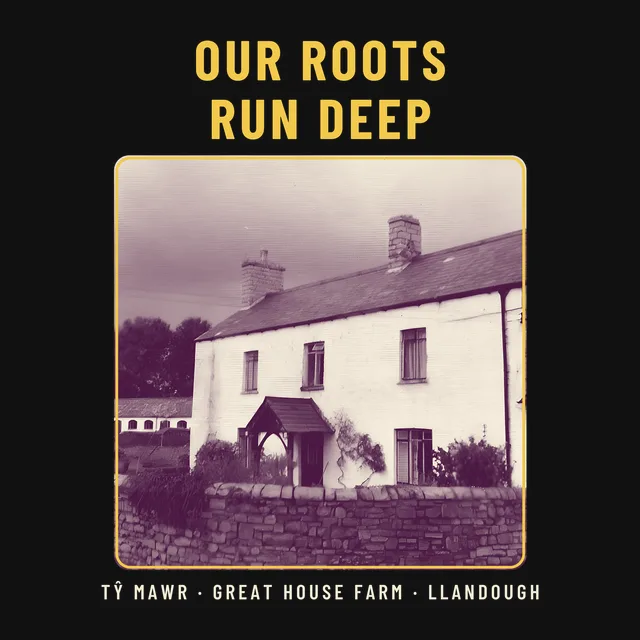
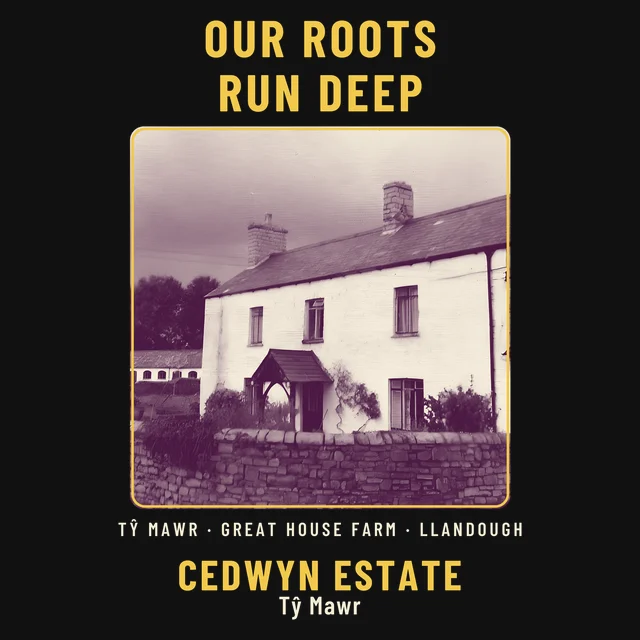
Shop: CEDWYN ESTATE / Tŷ Mawr lockup on all 17 product images; back link reads 'Back to Cedwyn Estate' — Sion's Tab agent

diff --git a/public/index.html b/public/index.html
@@ -14,29 +14,29 @@
 <p>T-shirts, hoodies, mugs, totes, posters and stickers for Great House Farm, Llandough. Each one is printed when you order it and sold at cost. Every purchase helps tell the story of the farm.</p>
 <p><a class="sl-btn" href="#products">Shop the merch</a> <a class="sl-btn sl-ghost" href="https://ebooks.bucklerfamily.estate/">The e-books</a></p></div></section>
 <section class="sh-sec" id="products"><h2>Merch</h2><p class="sh-lead">Seventeen items, each printed when you order it, mostly in the UK.</p>
-<p class="sh-note">Every item is in the store now. Checkout opens very soon; until then you can browse and save your favourites.</p><div class="sh-grid"><article class="sh-card" id="tee-farmhouse"><div class="sh-img"><img src="/img/p-tee-farmhouse.webp?v=photo1" alt="Tŷ Mawr Farmhouse T-shirt" loading="lazy" width="600" height="600"></div>
-<div class="sh-body"><p class="sh-kind">T-shirt</p><h3>Tŷ Mawr Farmhouse T-shirt</h3><p>A real photograph of the Tŷ Mawr farmhouse from the farm&#x27;s own album. The sky is removed and it is printed in a mulberry and cream duotone; the building itself is unchanged. On a black heavyweight cotton tee (Gildan 5000). Printed in the UK.</p><a class="sl-btn sh-buy" href="https://ty-mawr-gift-shop.printify.me/product/33339691?utm_source=shop.bucklerfamily.estate&amp;utm_medium=storefront&amp;utm_campaign=merch" rel="noopener">See it · from $16.99</a></div></article><article class="sh-card" id="tee-cofiwch"><div class="sh-img"><img src="/img/p-tee-cofiwch.webp" alt="Cofiwch Dŷ Mawr T-shirt" loading="lazy" width="600" height="600"></div>
-<div class="sh-body"><p class="sh-kind">T-shirt</p><h3>Cofiwch Dŷ Mawr T-shirt</h3><p>Remember Tŷ Mawr in bold Welsh type, on a black heavyweight cotton tee. Printed in the UK.</p><a class="sl-btn sh-buy" href="https://ty-mawr-gift-shop.printify.me/product/33339699?utm_source=shop.bucklerfamily.estate&amp;utm_medium=storefront&amp;utm_campaign=merch" rel="noopener">See it · from $16.99</a></div></article><article class="sh-card" id="tee-roots"><div class="sh-img"><img src="/img/p-tee-roots.webp?v=photo1" alt="Our Roots Run Deep T-shirt" loading="lazy" width="600" height="600"></div>
-<div class="sh-body"><p class="sh-kind">T-shirt</p><h3>Our Roots Run Deep T-shirt</h3><p>Our Roots Run Deep, above a real photograph of the Tŷ Mawr farmhouse from the farm&#x27;s own album, printed in a mulberry and cream duotone. On a black heavyweight cotton tee (Gildan 5000). Printed in the UK.</p><a class="sl-btn sh-buy" href="https://ty-mawr-gift-shop.printify.me/product/33339700?utm_source=shop.bucklerfamily.estate&amp;utm_medium=storefront&amp;utm_campaign=merch" rel="noopener">See it · from $16.99</a></div></article><article class="sh-card" id="tee-two-realities"><div class="sh-img"><img src="/img/p-tee-two-realities.webp" alt="Two Realities, One Farm T-shirt" loading="lazy" width="600" height="600"></div>
-<div class="sh-body"><p class="sh-kind">T-shirt</p><h3>Two Realities, One Farm T-shirt</h3><p>The chessboard design on a black heavyweight cotton tee. Printed in the UK.</p><a class="sl-btn sh-buy" href="https://ty-mawr-gift-shop.printify.me/product/33339701?utm_source=shop.bucklerfamily.estate&amp;utm_medium=storefront&amp;utm_campaign=merch" rel="noopener">See it · from $16.99</a></div></article><article class="sh-card" id="tee-owl"><div class="sh-img"><img src="/img/p-tee-porch.webp?v=photo1" alt="Croeso i Dŷ Mawr Porch T-shirt" loading="lazy" width="600" height="600"></div>
-<div class="sh-body"><p class="sh-kind">T-shirt</p><h3>Croeso i Dŷ Mawr Porch T-shirt</h3><p>The farmhouse&#x27;s timber porch, from a real photograph in the farm&#x27;s own album, printed in a mulberry and cream duotone with no changes to the building. On a black heavyweight cotton tee (Gildan 5000). Printed in the UK.</p><a class="sl-btn sh-buy" href="https://ty-mawr-gift-shop.printify.me/product/33339702?utm_source=shop.bucklerfamily.estate&amp;utm_medium=storefront&amp;utm_campaign=merch" rel="noopener">See it · from $16.99</a></div></article><article class="sh-card" id="tee-path"><div class="sh-img"><img src="/img/p-tee-path.webp?v=photo1" alt="I Followed the Path T-shirt" loading="lazy" width="600" height="600"></div>
-<div class="sh-body"><p class="sh-kind">T-shirt</p><h3>I Followed the Path T-shirt</h3><p>Numbered stepping stones leading to a real photograph of the Tŷ Mawr farmhouse (sky removed, mulberry and cream duotone). On a black heavyweight cotton tee (Gildan 5000). Printed in the UK.</p><a class="sl-btn sh-buy" href="https://ty-mawr-gift-shop.printify.me/product/33339704?utm_source=shop.bucklerfamily.estate&amp;utm_medium=storefront&amp;utm_campaign=merch" rel="noopener">See it · from $16.99</a></div></article><article class="sh-card" id="hoodie-emblem"><div class="sh-img"><img src="/img/p-hoodie-emblem.webp?v=photo1" alt="Tŷ Mawr Emblem Hoodie" loading="lazy" width="600" height="600"></div>
-<div class="sh-body"><p class="sh-kind">Hoodie</p><h3>Tŷ Mawr Emblem Hoodie</h3><p>The Tŷ Mawr emblem: a real photograph of the farmhouse from the farm&#x27;s own album, sky removed, in a mulberry tone inside a gold ring. On a black Gildan 18500 hooded sweatshirt. Printed in the UK.</p><a class="sl-btn sh-buy" href="https://ty-mawr-gift-shop.printify.me/product/33339706?utm_source=shop.bucklerfamily.estate&amp;utm_medium=storefront&amp;utm_campaign=merch" rel="noopener">See it · $40.99</a></div></article><article class="sh-card" id="hoodie-wordmark"><div class="sh-img"><img src="/img/p-hoodie-wordmark.webp" alt="Tŷ Mawr Estate Map Hoodie" loading="lazy" width="600" height="600"></div>
-<div class="sh-body"><p class="sh-kind">Hoodie</p><h3>Tŷ Mawr Estate Map Hoodie</h3><p>The Tŷ Mawr wordmark under estate-map line art, on a black hooded sweatshirt. Printed in the UK.</p><a class="sl-btn sh-buy" href="https://ty-mawr-gift-shop.printify.me/product/33339709?utm_source=shop.bucklerfamily.estate&amp;utm_medium=storefront&amp;utm_campaign=merch" rel="noopener">See it · $40.99</a></div></article><article class="sh-card" id="mug-emblem"><div class="sh-img"><img src="/img/p-mug-emblem.webp?v=photo1" alt="Tŷ Mawr Black Mug" loading="lazy" width="600" height="600"></div>
-<div class="sh-body"><p class="sh-kind">Mug</p><h3>Tŷ Mawr Black Mug</h3><p>Black ceramic mug, 11oz or 15oz, with the Tŷ Mawr emblem on both sides: a real photograph of the farmhouse, sky removed, in a mulberry tone inside a gold ring. Printed in the UK.</p><a class="sl-btn sh-buy" href="https://ty-mawr-gift-shop.printify.me/product/33339711?utm_source=shop.bucklerfamily.estate&amp;utm_medium=storefront&amp;utm_campaign=merch" rel="noopener">See it · from $14.99</a></div></article><article class="sh-card" id="mug-croeso"><div class="sh-img"><img src="/img/p-mug-croeso.webp" alt="Croeso i Dŷ Mawr Mug" loading="lazy" width="600" height="600"></div>
-<div class="sh-body"><p class="sh-kind">Mug</p><h3>Croeso i Dŷ Mawr Mug</h3><p>Black ceramic mug with the field-map design and a Welsh welcome. Printed in the UK.</p><a class="sl-btn sh-buy" href="https://ty-mawr-gift-shop.printify.me/product/33339714?utm_source=shop.bucklerfamily.estate&amp;utm_medium=storefront&amp;utm_campaign=merch" rel="noopener">See it · from $14.99</a></div></article><article class="sh-card" id="tote-record"><div class="sh-img"><img src="/img/p-tote-record.webp" alt="Read the Record Tote Bag" loading="lazy" width="600" height="600"></div>
-<div class="sh-body"><p class="sh-kind">Tote bag</p><h3>Read the Record Tote Bag</h3><p>Black cotton tote with the open-book Read the Record design. Printed in the UK.</p><a class="sl-btn sh-buy" href="https://ty-mawr-gift-shop.printify.me/product/33339716?utm_source=shop.bucklerfamily.estate&amp;utm_medium=storefront&amp;utm_campaign=merch" rel="noopener">See it · $17.99</a></div></article><article class="sh-card" id="poster-vale"><div class="sh-img"><img src="/img/p-poster-vale.webp?v=photo1" alt="Tŷ Mawr Album Poster" loading="lazy" width="600" height="600"></div>
-<div class="sh-body"><p class="sh-kind">Poster</p><h3>Tŷ Mawr Album Poster</h3><p>Four real photographs from the farm&#x27;s own album: the farmhouse front, its side and porch, the entrance gate and the stable range. Restored and printed in a mulberry duotone, with no changes to the buildings. Matte fine-art paper. Printed in the UK.</p><a class="sl-btn sh-buy" href="https://ty-mawr-gift-shop.printify.me/product/33339720?utm_source=shop.bucklerfamily.estate&amp;utm_medium=storefront&amp;utm_campaign=merch" rel="noopener">See it · from $17.99</a></div></article><article class="sh-card" id="sticker-badge"><div class="sh-img"><img src="/img/p-sticker-badge.webp?v=photo1" alt="Tŷ Mawr Badge Sticker" loading="lazy" width="600" height="600"></div>
-<div class="sh-body"><p class="sh-kind">Sticker</p><h3>Tŷ Mawr Badge Sticker</h3><p>Round kiss-cut vinyl sticker with the Tŷ Mawr emblem: a real photograph of the farmhouse in a mulberry tone inside a gold ring. Ships from the US, so it takes longer.</p><a class="sl-btn sh-buy" href="https://ty-mawr-gift-shop.printify.me/product/33339723?utm_source=shop.bucklerfamily.estate&amp;utm_medium=storefront&amp;utm_campaign=merch" rel="noopener">See it · $3.99</a></div></article><article class="sh-card" id="tee-crest"><div class="sh-img"><img src="/img/p-tee-crest.webp?v=crest2" alt="Williams–Buckler Crest T-shirt" loading="lazy" width="600" height="600"></div>
-<div class="sh-body"><p class="sh-kind">T-shirt</p><h3>Williams–Buckler Crest T-shirt</h3><p>The Williams–Buckler · Cedwyn Estate crest, heraldic vector artwork in black and gold, drawn to the Burke blazon, on a black heavyweight cotton tee (Gildan 5000). A brand device combining the Williams and Buckler arms; not a grant of arms. Crest artwork adapted from Wikimedia Commons works by Sodacan, Glasshouse, Vexald and VIGNERON (after ZigeunerAlt), CC BY-SA 4.0. Printed in the UK.</p><a class="sl-btn sh-buy" href="https://ty-mawr-gift-shop.printify.me/product/33341237?utm_source=shop.bucklerfamily.estate&amp;utm_medium=storefront&amp;utm_campaign=merch" rel="noopener">See it · from $16.99</a></div></article><article class="sh-card" id="hoodie-crest"><div class="sh-img"><img src="/img/p-hoodie-crest.webp?v=crest2" alt="Williams–Buckler Crest Hoodie" loading="lazy" width="600" height="600"></div>
-<div class="sh-body"><p class="sh-kind">Hoodie</p><h3>Williams–Buckler Crest Hoodie</h3><p>The Williams–Buckler · Cedwyn Estate crest, heraldic vector artwork in black and gold, drawn to the Burke blazon, on a black Gildan 18500 hooded sweatshirt. A brand device combining the Williams and Buckler arms; not a grant of arms. Crest artwork adapted from Wikimedia Commons works by Sodacan, Glasshouse, Vexald and VIGNERON (after ZigeunerAlt), CC BY-SA 4.0. Printed in the UK.</p><a class="sl-btn sh-buy" href="https://ty-mawr-gift-shop.printify.me/product/33341239?utm_source=shop.bucklerfamily.estate&amp;utm_medium=storefront&amp;utm_campaign=merch" rel="noopener">See it · $40.99</a></div></article><article class="sh-card" id="mug-crest"><div class="sh-img"><img src="/img/p-mug-crest.webp?v=crest2" alt="Williams–Buckler Crest Mug" loading="lazy" width="600" height="600"></div>
-<div class="sh-body"><p class="sh-kind">Mug</p><h3>Williams–Buckler Crest Mug</h3><p>Black ceramic mug, 11oz or 15oz, with the Williams–Buckler · Cedwyn Estate crest on both sides. A brand device combining the Williams and Buckler arms; not a grant of arms. Crest artwork adapted from Wikimedia Commons works by Sodacan, Glasshouse, Vexald and VIGNERON (after ZigeunerAlt), CC BY-SA 4.0. Printed in the UK.</p><a class="sl-btn sh-buy" href="https://ty-mawr-gift-shop.printify.me/product/33341242?utm_source=shop.bucklerfamily.estate&amp;utm_medium=storefront&amp;utm_campaign=merch" rel="noopener">See it · from $14.99</a></div></article><article class="sh-card" id="sticker-crest"><div class="sh-img"><img src="/img/p-sticker-crest.webp?v=crest2" alt="Williams–Buckler Crest Sticker" loading="lazy" width="600" height="600"></div>
+<p class="sh-note">Every item is in the store now. Checkout opens very soon; until then you can browse and save your favourites.</p><div class="sh-grid"><article class="sh-card" id="tee-farmhouse"><div class="sh-img"><img src="/img/p-tee-farmhouse.webp?v=lockup1" alt="Tŷ Mawr Farmhouse T-shirt" loading="lazy" width="600" height="600"></div>
+<div class="sh-body"><p class="sh-kind">T-shirt</p><h3>Tŷ Mawr Farmhouse T-shirt</h3><p>A real photograph of the Tŷ Mawr farmhouse from the farm&#x27;s own album. The sky is removed and it is printed in a mulberry and cream duotone; the building itself is unchanged. On a black heavyweight cotton tee (Gildan 5000). Printed in the UK.</p><a class="sl-btn sh-buy" href="https://ty-mawr-gift-shop.printify.me/product/33339691?utm_source=shop.bucklerfamily.estate&amp;utm_medium=storefront&amp;utm_campaign=merch" rel="noopener">See it · from $16.99</a></div></article><article class="sh-card" id="tee-cofiwch"><div class="sh-img"><img src="/img/p-tee-cofiwch.webp?v=lockup1" alt="Cofiwch Dŷ Mawr T-shirt" loading="lazy" width="600" height="600"></div>
+<div class="sh-body"><p class="sh-kind">T-shirt</p><h3>Cofiwch Dŷ Mawr T-shirt</h3><p>Remember Tŷ Mawr in bold Welsh type, on a black heavyweight cotton tee. Printed in the UK.</p><a class="sl-btn sh-buy" href="https://ty-mawr-gift-shop.printify.me/product/33339699?utm_source=shop.bucklerfamily.estate&amp;utm_medium=storefront&amp;utm_campaign=merch" rel="noopener">See it · from $16.99</a></div></article><article class="sh-card" id="tee-roots"><div class="sh-img"><img src="/img/p-tee-roots.webp?v=lockup1" alt="Our Roots Run Deep T-shirt" loading="lazy" width="600" height="600"></div>
+<div class="sh-body"><p class="sh-kind">T-shirt</p><h3>Our Roots Run Deep T-shirt</h3><p>Our Roots Run Deep, above a real photograph of the Tŷ Mawr farmhouse from the farm&#x27;s own album, printed in a mulberry and cream duotone. On a black heavyweight cotton tee (Gildan 5000). Printed in the UK.</p><a class="sl-btn sh-buy" href="https://ty-mawr-gift-shop.printify.me/product/33339700?utm_source=shop.bucklerfamily.estate&amp;utm_medium=storefront&amp;utm_campaign=merch" rel="noopener">See it · from $16.99</a></div></article><article class="sh-card" id="tee-two-realities"><div class="sh-img"><img src="/img/p-tee-two-realities.webp?v=lockup1" alt="Two Realities, One Farm T-shirt" loading="lazy" width="600" height="600"></div>
+<div class="sh-body"><p class="sh-kind">T-shirt</p><h3>Two Realities, One Farm T-shirt</h3><p>The chessboard design on a black heavyweight cotton tee. Printed in the UK.</p><a class="sl-btn sh-buy" href="https://ty-mawr-gift-shop.printify.me/product/33339701?utm_source=shop.bucklerfamily.estate&amp;utm_medium=storefront&amp;utm_campaign=merch" rel="noopener">See it · from $16.99</a></div></article><article class="sh-card" id="tee-owl"><div class="sh-img"><img src="/img/p-tee-porch.webp?v=lockup1" alt="Croeso i Dŷ Mawr Porch T-shirt" loading="lazy" width="600" height="600"></div>
+<div class="sh-body"><p class="sh-kind">T-shirt</p><h3>Croeso i Dŷ Mawr Porch T-shirt</h3><p>The farmhouse&#x27;s timber porch, from a real photograph in the farm&#x27;s own album, printed in a mulberry and cream duotone with no changes to the building. On a black heavyweight cotton tee (Gildan 5000). Printed in the UK.</p><a class="sl-btn sh-buy" href="https://ty-mawr-gift-shop.printify.me/product/33339702?utm_source=shop.bucklerfamily.estate&amp;utm_medium=storefront&amp;utm_campaign=merch" rel="noopener">See it · from $16.99</a></div></article><article class="sh-card" id="tee-path"><div class="sh-img"><img src="/img/p-tee-path.webp?v=lockup1" alt="I Followed the Path T-shirt" loading="lazy" width="600" height="600"></div>
+<div class="sh-body"><p class="sh-kind">T-shirt</p><h3>I Followed the Path T-shirt</h3><p>Numbered stepping stones leading to a real photograph of the Tŷ Mawr farmhouse (sky removed, mulberry and cream duotone). On a black heavyweight cotton tee (Gildan 5000). Printed in the UK.</p><a class="sl-btn sh-buy" href="https://ty-mawr-gift-shop.printify.me/product/33339704?utm_source=shop.bucklerfamily.estate&amp;utm_medium=storefront&amp;utm_campaign=merch" rel="noopener">See it · from $16.99</a></div></article><article class="sh-card" id="hoodie-emblem"><div class="sh-img"><img src="/img/p-hoodie-emblem.webp?v=lockup1" alt="Tŷ Mawr Emblem Hoodie" loading="lazy" width="600" height="600"></div>
+<div class="sh-body"><p class="sh-kind">Hoodie</p><h3>Tŷ Mawr Emblem Hoodie</h3><p>The Tŷ Mawr emblem: a real photograph of the farmhouse from the farm&#x27;s own album, sky removed, in a mulberry tone inside a gold ring. On a black Gildan 18500 hooded sweatshirt. Printed in the UK.</p><a class="sl-btn sh-buy" href="https://ty-mawr-gift-shop.printify.me/product/33339706?utm_source=shop.bucklerfamily.estate&amp;utm_medium=storefront&amp;utm_campaign=merch" rel="noopener">See it · $40.99</a></div></article><article class="sh-card" id="hoodie-wordmark"><div class="sh-img"><img src="/img/p-hoodie-wordmark.webp?v=lockup1" alt="Tŷ Mawr Estate Map Hoodie" loading="lazy" width="600" height="600"></div>
+<div class="sh-body"><p class="sh-kind">Hoodie</p><h3>Tŷ Mawr Estate Map Hoodie</h3><p>The Tŷ Mawr wordmark under estate-map line art, on a black hooded sweatshirt. Printed in the UK.</p><a class="sl-btn sh-buy" href="https://ty-mawr-gift-shop.printify.me/product/33339709?utm_source=shop.bucklerfamily.estate&amp;utm_medium=storefront&amp;utm_campaign=merch" rel="noopener">See it · $40.99</a></div></article><article class="sh-card" id="mug-emblem"><div class="sh-img"><img src="/img/p-mug-emblem.webp?v=lockup1" alt="Tŷ Mawr Black Mug" loading="lazy" width="600" height="600"></div>
+<div class="sh-body"><p class="sh-kind">Mug</p><h3>Tŷ Mawr Black Mug</h3><p>Black ceramic mug, 11oz or 15oz, with the Tŷ Mawr emblem on both sides: a real photograph of the farmhouse, sky removed, in a mulberry tone inside a gold ring. Printed in the UK.</p><a class="sl-btn sh-buy" href="https://ty-mawr-gift-shop.printify.me/product/33339711?utm_source=shop.bucklerfamily.estate&amp;utm_medium=storefront&amp;utm_campaign=merch" rel="noopener">See it · from $14.99</a></div></article><article class="sh-card" id="mug-croeso"><div class="sh-img"><img src="/img/p-mug-croeso.webp?v=lockup1" alt="Croeso i Dŷ Mawr Mug" loading="lazy" width="600" height="600"></div>
+<div class="sh-body"><p class="sh-kind">Mug</p><h3>Croeso i Dŷ Mawr Mug</h3><p>Black ceramic mug with the field-map design and a Welsh welcome. Printed in the UK.</p><a class="sl-btn sh-buy" href="https://ty-mawr-gift-shop.printify.me/product/33339714?utm_source=shop.bucklerfamily.estate&amp;utm_medium=storefront&amp;utm_campaign=merch" rel="noopener">See it · from $14.99</a></div></article><article class="sh-card" id="tote-record"><div class="sh-img"><img src="/img/p-tote-record.webp?v=lockup1" alt="Read the Record Tote Bag" loading="lazy" width="600" height="600"></div>
+<div class="sh-body"><p class="sh-kind">Tote bag</p><h3>Read the Record Tote Bag</h3><p>Black cotton tote with the open-book Read the Record design. Printed in the UK.</p><a class="sl-btn sh-buy" href="https://ty-mawr-gift-shop.printify.me/product/33339716?utm_source=shop.bucklerfamily.estate&amp;utm_medium=storefront&amp;utm_campaign=merch" rel="noopener">See it · $17.99</a></div></article><article class="sh-card" id="poster-vale"><div class="sh-img"><img src="/img/p-poster-vale.webp?v=lockup1" alt="Tŷ Mawr Album Poster" loading="lazy" width="600" height="600"></div>
+<div class="sh-body"><p class="sh-kind">Poster</p><h3>Tŷ Mawr Album Poster</h3><p>Four real photographs from the farm&#x27;s own album: the farmhouse front, its side and porch, the entrance gate and the stable range. Restored and printed in a mulberry duotone, with no changes to the buildings. Matte fine-art paper. Printed in the UK.</p><a class="sl-btn sh-buy" href="https://ty-mawr-gift-shop.printify.me/product/33339720?utm_source=shop.bucklerfamily.estate&amp;utm_medium=storefront&amp;utm_campaign=merch" rel="noopener">See it · from $17.99</a></div></article><article class="sh-card" id="sticker-badge"><div class="sh-img"><img src="/img/p-sticker-badge.webp?v=lockup1" alt="Tŷ Mawr Badge Sticker" loading="lazy" width="600" height="600"></div>
+<div class="sh-body"><p class="sh-kind">Sticker</p><h3>Tŷ Mawr Badge Sticker</h3><p>Round kiss-cut vinyl sticker with the Tŷ Mawr emblem: a real photograph of the farmhouse in a mulberry tone inside a gold ring. Ships from the US, so it takes longer.</p><a class="sl-btn sh-buy" href="https://ty-mawr-gift-shop.printify.me/product/33339723?utm_source=shop.bucklerfamily.estate&amp;utm_medium=storefront&amp;utm_campaign=merch" rel="noopener">See it · $3.99</a></div></article><article class="sh-card" id="tee-crest"><div class="sh-img"><img src="/img/p-tee-crest.webp?v=lockup1" alt="Williams–Buckler Crest T-shirt" loading="lazy" width="600" height="600"></div>
+<div class="sh-body"><p class="sh-kind">T-shirt</p><h3>Williams–Buckler Crest T-shirt</h3><p>The Williams–Buckler · Cedwyn Estate crest, heraldic vector artwork in black and gold, drawn to the Burke blazon, on a black heavyweight cotton tee (Gildan 5000). A brand device combining the Williams and Buckler arms; not a grant of arms. Crest artwork adapted from Wikimedia Commons works by Sodacan, Glasshouse, Vexald and VIGNERON (after ZigeunerAlt), CC BY-SA 4.0. Printed in the UK.</p><a class="sl-btn sh-buy" href="https://ty-mawr-gift-shop.printify.me/product/33341237?utm_source=shop.bucklerfamily.estate&amp;utm_medium=storefront&amp;utm_campaign=merch" rel="noopener">See it · from $16.99</a></div></article><article class="sh-card" id="hoodie-crest"><div class="sh-img"><img src="/img/p-hoodie-crest.webp?v=lockup1" alt="Williams–Buckler Crest Hoodie" loading="lazy" width="600" height="600"></div>
+<div class="sh-body"><p class="sh-kind">Hoodie</p><h3>Williams–Buckler Crest Hoodie</h3><p>The Williams–Buckler · Cedwyn Estate crest, heraldic vector artwork in black and gold, drawn to the Burke blazon, on a black Gildan 18500 hooded sweatshirt. A brand device combining the Williams and Buckler arms; not a grant of arms. Crest artwork adapted from Wikimedia Commons works by Sodacan, Glasshouse, Vexald and VIGNERON (after ZigeunerAlt), CC BY-SA 4.0. Printed in the UK.</p><a class="sl-btn sh-buy" href="https://ty-mawr-gift-shop.printify.me/product/33341239?utm_source=shop.bucklerfamily.estate&amp;utm_medium=storefront&amp;utm_campaign=merch" rel="noopener">See it · $40.99</a></div></article><article class="sh-card" id="mug-crest"><div class="sh-img"><img src="/img/p-mug-crest.webp?v=lockup1" alt="Williams–Buckler Crest Mug" loading="lazy" width="600" height="600"></div>
+<div class="sh-body"><p class="sh-kind">Mug</p><h3>Williams–Buckler Crest Mug</h3><p>Black ceramic mug, 11oz or 15oz, with the Williams–Buckler · Cedwyn Estate crest on both sides. A brand device combining the Williams and Buckler arms; not a grant of arms. Crest artwork adapted from Wikimedia Commons works by Sodacan, Glasshouse, Vexald and VIGNERON (after ZigeunerAlt), CC BY-SA 4.0. Printed in the UK.</p><a class="sl-btn sh-buy" href="https://ty-mawr-gift-shop.printify.me/product/33341242?utm_source=shop.bucklerfamily.estate&amp;utm_medium=storefront&amp;utm_campaign=merch" rel="noopener">See it · from $14.99</a></div></article><article class="sh-card" id="sticker-crest"><div class="sh-img"><img src="/img/p-sticker-crest.webp?v=lockup1" alt="Williams–Buckler Crest Sticker" loading="lazy" width="600" height="600"></div>
 <div class="sh-body"><p class="sh-kind">Sticker</p><h3>Williams–Buckler Crest Sticker</h3><p>Kiss-cut vinyl sticker of the Williams–Buckler · Cedwyn Estate crest. A brand device combining the Williams and Buckler arms; not a grant of arms. Crest artwork adapted from Wikimedia Commons works by Sodacan, Glasshouse, Vexald and VIGNERON (after ZigeunerAlt), CC BY-SA 4.0. Ships from the US, so it takes longer.</p><a class="sl-btn sh-buy" href="https://ty-mawr-gift-shop.printify.me/product/33341245?utm_source=shop.bucklerfamily.estate&amp;utm_medium=storefront&amp;utm_campaign=merch" rel="noopener">See it · $3.99</a></div></article></div></section>
 <section class="sh-sec" id="books"><h2>Books</h2><p class="sh-lead">The story behind the designs, in full.</p>
 <div class="sh-books"><a class="sh-book" href="https://bucklerfamily.estate/ebook/"><strong>The Great House Farm Legal Wiki</strong><span>The whole wiki as one e-book · from £0.00 · £9.99 – v0.02 · all four £31.99</span></a>
 <a class="sh-book" href="https://ebooks.bucklerfamily.estate/"><strong>All the e-books</strong><span>Every book from £0.00 – v0.01 and £9.99 – v0.02; all four for £31.99</span></a></div></section>
 <section class="sh-sec" id="designs"><h2>The designs</h2><p class="sh-lead">Every picture of the farm is a real photograph from the farm’s own album: restored and toned, never redrawn or generated. No photograph shows a person.</p>
-<div class="sh-dgrid"><figure class="sh-d"><img src="/img/ph01-farmhouse.webp" alt="Tŷ Mawr farmhouse" loading="lazy" width="640" height="640"><figcaption><strong>Tŷ Mawr farmhouse</strong> A real photograph from the farm&#x27;s own album: sky removed, mulberry and cream duotone. The building is unchanged.</figcaption></figure><figure class="sh-d"><img src="/img/ph02-porch.webp" alt="Croeso i Dŷ Mawr" loading="lazy" width="640" height="640"><figcaption><strong>Croeso i Dŷ Mawr</strong> The farmhouse&#x27;s timber porch, from a real album photograph, in duotone.</figcaption></figure><figure class="sh-d"><img src="/img/ph03-our-roots.webp" alt="Our roots run deep" loading="lazy" width="640" height="640"><figcaption><strong>Our roots run deep</strong> The words above a real photograph of the farmhouse, in duotone.</figcaption></figure><figure class="sh-d"><img src="/img/ph04-path.webp" alt="I followed the path" loading="lazy" width="640" height="640"><figcaption><strong>I followed the path</strong> Numbered stepping stones up to the real farmhouse photograph.</figcaption></figure><figure class="sh-d"><img src="/img/ph05-emblem.webp" alt="The Tŷ Mawr emblem" loading="lazy" width="640" height="640"><figcaption><strong>The Tŷ Mawr emblem</strong> The farmhouse photograph, sky removed, inside a gold ring.</figcaption></figure><figure class="sh-d"><img src="/img/ph06-album-poster.webp" alt="From the farm’s album" loading="lazy" width="640" height="640"><figcaption><strong>From the farm’s album</strong> Four real photographs: the farmhouse front, side, entrance and stable range.</figcaption></figure><figure class="sh-d"><img src="/img/cr01-crest.webp" alt="Williams–Buckler crest" loading="lazy" width="640" height="640"><figcaption><strong>Williams–Buckler crest</strong> Hand-drawn vector brand device for the Cedwyn Estate. A brand device combining the Williams and Buckler arms; not a grant of arms.</figcaption></figure><figure class="sh-d"><img src="/img/d04-cofiwch-dy-mawr.webp" alt="Cofiwch Dŷ Mawr" loading="lazy" width="640" height="640"><figcaption><strong>Cofiwch Dŷ Mawr</strong> Remember Tŷ Mawr, in bold Welsh type.</figcaption></figure><figure class="sh-d"><img src="/img/d07-two-realities-one-farm.webp" alt="Two realities. One farm." loading="lazy" width="640" height="640"><figcaption><strong>Two realities. One farm.</strong> A chessboard for the two stories told about one farm.</figcaption></figure><figure class="sh-d"><img src="/img/d03-wordmark-estate-map.webp" alt="Tŷ Mawr · estate map" loading="lazy" width="640" height="640"><figcaption><strong>Tŷ Mawr · estate map</strong> The wordmark under stylised estate map line art.</figcaption></figure><figure class="sh-d"><img src="/img/d05-every-field-has-a-story.webp" alt="Every field has a story" loading="lazy" width="640" height="640"><figcaption><strong>Every field has a story</strong> Field-map line art and an italic line of text.</figcaption></figure><figure class="sh-d"><img src="/img/d06-read-the-record.webp" alt="Read the record" loading="lazy" width="640" height="640"><figcaption><strong>Read the record</strong> An open book, for readers of the Legal Wiki.</figcaption></figure></div></section>
+<div class="sh-dgrid"><figure class="sh-d"><img src="/img/ph01-farmhouse.webp?v=lockup1" alt="Tŷ Mawr farmhouse" loading="lazy" width="640" height="640"><figcaption><strong>Tŷ Mawr farmhouse</strong> A real photograph from the farm&#x27;s own album: sky removed, mulberry and cream duotone. The building is unchanged.</figcaption></figure><figure class="sh-d"><img src="/img/ph02-porch.webp?v=lockup1" alt="Croeso i Dŷ Mawr" loading="lazy" width="640" height="640"><figcaption><strong>Croeso i Dŷ Mawr</strong> The farmhouse&#x27;s timber porch, from a real album photograph, in duotone.</figcaption></figure><figure class="sh-d"><img src="/img/ph03-our-roots.webp?v=lockup1" alt="Our roots run deep" loading="lazy" width="640" height="640"><figcaption><strong>Our roots run deep</strong> The words above a real photograph of the farmhouse, in duotone.</figcaption></figure><figure class="sh-d"><img src="/img/ph04-path.webp?v=lockup1" alt="I followed the path" loading="lazy" width="640" height="640"><figcaption><strong>I followed the path</strong> Numbered stepping stones up to the real farmhouse photograph.</figcaption></figure><figure class="sh-d"><img src="/img/ph05-emblem.webp?v=lockup1" alt="The Tŷ Mawr emblem" loading="lazy" width="640" height="640"><figcaption><strong>The Tŷ Mawr emblem</strong> The farmhouse photograph, sky removed, inside a gold ring.</figcaption></figure><figure class="sh-d"><img src="/img/ph06-album-poster.webp?v=lockup1" alt="From the farm’s album" loading="lazy" width="640" height="640"><figcaption><strong>From the farm’s album</strong> Four real photographs: the farmhouse front, side, entrance and stable range.</figcaption></figure><figure class="sh-d"><img src="/img/cr01-crest.webp?v=lockup1" alt="Williams–Buckler crest" loading="lazy" width="640" height="640"><figcaption><strong>Williams–Buckler crest</strong> Hand-drawn vector brand device for the Cedwyn Estate. A brand device combining the Williams and Buckler arms; not a grant of arms.</figcaption></figure><figure class="sh-d"><img src="/img/d04-cofiwch-dy-mawr.webp?v=lockup1" alt="Cofiwch Dŷ Mawr" loading="lazy" width="640" height="640"><figcaption><strong>Cofiwch Dŷ Mawr</strong> Remember Tŷ Mawr, in bold Welsh type.</figcaption></figure><figure class="sh-d"><img src="/img/d07-two-realities-one-farm.webp?v=lockup1" alt="Two realities. One farm." loading="lazy" width="640" height="640"><figcaption><strong>Two realities. One farm.</strong> A chessboard for the two stories told about one farm.</figcaption></figure><figure class="sh-d"><img src="/img/d03-wordmark-estate-map.webp?v=lockup1" alt="Tŷ Mawr · estate map" loading="lazy" width="640" height="640"><figcaption><strong>Tŷ Mawr · estate map</strong> The wordmark under stylised estate map line art.</figcaption></figure><figure class="sh-d"><img src="/img/d05-every-field-has-a-story.webp?v=lockup1" alt="Every field has a story" loading="lazy" width="640" height="640"><figcaption><strong>Every field has a story</strong> Field-map line art and an italic line of text.</figcaption></figure><figure class="sh-d"><img src="/img/d06-read-the-record.webp?v=lockup1" alt="Read the record" loading="lazy" width="640" height="640"><figcaption><strong>Read the record</strong> An open book, for readers of the Legal Wiki.</figcaption></figure></div></section>
 <section class="sh-sec" id="how"><h2>How an order works</h2><ol class="sh-steps">
 <li>Pick an item and press the button. It opens in our print partner's secure store, where you choose size and colour and pay.</li>
 <li>The item is printed to order by a print partner near you (UK items print in the UK where available).</li>
@@ -44,6 +44,6 @@
 <li>If it arrives damaged or misprinted, it's reprinted or refunded. See <a href="/terms/">terms, delivery and returns</a>.</li></ol>
 <p class="sh-fine">Prices are in US dollars, the store's base currency; your card converts at checkout. They cover the print, the payment fees and little else. The project runs at cost, not for profit.</p></section>
 </main><footer class="sl-foot"><div class="sl-foot-in"><a class="sl-foot-title" href="/">Gift shop — Great House Farm / Tŷ Mawr</a>
-<a href="https://bucklerfamily.estate/">&#10229; Back to Cedwyn Estate (bucklerfamily.estate)</a><a href="https://ebooks.bucklerfamily.estate/">E-books</a><a href="https://bucklerfamily.estate/ebook/">The Legal Wiki book</a><a href="https://greathousefarmwiki.wordpress.com/">Legal Wiki</a><a href="/terms/">Terms, delivery and returns</a><a href="https://ty-mawr-gift-shop.printify.me/">The whole store</a>
+<a href="https://bucklerfamily.estate/">&#10229; Back to Cedwyn Estate</a><a href="https://ebooks.bucklerfamily.estate/">E-books</a><a href="https://bucklerfamily.estate/ebook/">The Legal Wiki book</a><a href="https://greathousefarmwiki.wordpress.com/">Legal Wiki</a><a href="/terms/">Terms, delivery and returns</a><a href="https://ty-mawr-gift-shop.printify.me/">The whole store</a>
 <p class="sh-fine">Merch is sold by DATRO CONSORTIUM LIMITED, the merchant of record, pro bono and at cost, to fund the Great House Farm / Tŷ Mawr heritage story project. Printed to order and shipped by our print partner. Checkout is secure and card details never touch this site.</p>
 <p class="sh-fine">— Sion's Tab agent</p></div></footer></body></html>

diff --git a/public/terms/index.html b/public/terms/index.html
@@ -16,6 +16,6 @@
 <h2>Contact</h2><p>Questions about an order: <a href="mailto:info@bucklerfamily.estate">info@bucklerfamily.estate</a>. Please include your order number.</p>
 <h2>The designs</h2><p>All designs were made for this shop and are © DATRO CONSORTIUM LIMITED for the Great House Farm / Tŷ Mawr project. Pictures of the farm are real photographs from the farm’s own album, restored (upscaled, contrast, toning, sky removal) without changing what they show. The other designs are typography and line art. The Williams–Buckler crest is a brand device combining the Williams and Buckler arms; not a grant of arms.</p>
 <p class="sh-fine">Last updated 20 October 2026. — Sion's Tab agent</p></main><footer class="sl-foot"><div class="sl-foot-in"><a class="sl-foot-title" href="/">Gift shop — Great House Farm / Tŷ Mawr</a>
-<a href="https://bucklerfamily.estate/">&#10229; Back to Cedwyn Estate (bucklerfamily.estate)</a><a href="https://ebooks.bucklerfamily.estate/">E-books</a><a href="https://bucklerfamily.estate/ebook/">The Legal Wiki book</a><a href="https://greathousefarmwiki.wordpress.com/">Legal Wiki</a><a href="/terms/">Terms, delivery and returns</a><a href="https://ty-mawr-gift-shop.printify.me/">The whole store</a>
+<a href="https://bucklerfamily.estate/">&#10229; Back to Cedwyn Estate</a><a href="https://ebooks.bucklerfamily.estate/">E-books</a><a href="https://bucklerfamily.estate/ebook/">The Legal Wiki book</a><a href="https://greathousefarmwiki.wordpress.com/">Legal Wiki</a><a href="/terms/">Terms, delivery and returns</a><a href="https://ty-mawr-gift-shop.printify.me/">The whole store</a>
 <p class="sh-fine">Merch is sold by DATRO CONSORTIUM LIMITED, the merchant of record, pro bono and at cost, to fund the Great House Farm / Tŷ Mawr heritage story project. Printed to order and shipped by our print partner. Checkout is secure and card details never touch this site.</p>
 <p class="sh-fine">— Sion's Tab agent</p></div></footer></body></html>

diff --git a/build.py b/build.py
@@ -16,7 +16,7 @@ HEAD = """<!doctype html><html lang="en-GB"><head><meta charset="utf-8"><meta na
 <header class="sl-nav"><nav class="top" aria-label="Site"><a href="/"><strong>Gift shop</strong></a><a href="/#products">Merch</a><a href="https://ebooks.bucklerfamily.estate/">E-books</a><a class="sl-ghost" href="https://greathousefarmwiki.wordpress.com/">Legal Wiki</a></nav></header>
 """
 FOOT = """<footer class="sl-foot"><div class="sl-foot-in"><a class="sl-foot-title" href="/">Gift shop — Great House Farm / Tŷ Mawr</a>
-<a href="https://bucklerfamily.estate/">&#10229; Back to Cedwyn Estate (bucklerfamily.estate)</a><a href="https://ebooks.bucklerfamily.estate/">E-books</a><a href="https://bucklerfamily.estate/ebook/">The Legal Wiki book</a><a href="https://greathousefarmwiki.wordpress.com/">Legal Wiki</a><a href="/terms/">Terms, delivery and returns</a><a href="https://ty-mawr-gift-shop.printify.me/">The whole store</a>
+<a href="https://bucklerfamily.estate/">&#10229; Back to Cedwyn Estate</a><a href="https://ebooks.bucklerfamily.estate/">E-books</a><a href="https://bucklerfamily.estate/ebook/">The Legal Wiki book</a><a href="https://greathousefarmwiki.wordpress.com/">Legal Wiki</a><a href="/terms/">Terms, delivery and returns</a><a href="https://ty-mawr-gift-shop.printify.me/">The whole store</a>
 <p class="sh-fine">Merch is sold by DATRO CONSORTIUM LIMITED, the merchant of record, pro bono and at cost, to fund the Great House Farm / Tŷ Mawr heritage story project. Printed to order and shipped by our print partner. Checkout is secure and card details never touch this site.</p>
 <p class="sh-fine">— Sion's Tab agent</p></div></footer></body></html>"""
 def card(p):
@@ -27,7 +27,7 @@ def card(p):
     return f"""<article class="sh-card" id="{e(p['id'])}"><div class="sh-img"><img src="{e(imgs)}" alt="{e(p['title'])}" loading="lazy" width="600" height="600"></div>
 <div class="sh-body"><p class="sh-kind">{e(p['kind'])}</p><h3>{e(p['title'])}</h3><p>{e(p['desc'])}</p>{btn}</div></article>"""
 def dcard(d):
-    return f"""<figure class="sh-d"><img src="/img/{e(d['file'])}.webp" alt="{e(d['title'])}" loading="lazy" width="640" height="640"><figcaption><strong>{e(d['title'])}</strong> {e(d['note'])}</figcaption></figure>"""
+    return f"""<figure class="sh-d"><img src="/img/{e(d['file'])}.webp?v=lockup1" alt="{e(d['title'])}" loading="lazy" width="640" height="640"><figcaption><strong>{e(d['title'])}</strong> {e(d['note'])}</figcaption></figure>"""
 v = CFG.get('v','1')
 live = [p for p in P if p.get('buy_url')]
 NOTICE = '' if CFG.get('checkout_open') else '<p class="sh-note">Every item is in the store now. Checkout opens very soon; until then you can browse and save your favourites.</p>'

diff --git a/README.md b/README.md
@@ -13,6 +13,6 @@ The Tŷ Mawr / Great House Farm gift shop: a static storefront in the house styl
 
 © Williams–Buckler family. All rights reserved. Licence terms apply.
 
-The content and original code in this repository are not open source. You may read it, link to it and quote it fairly with credit. Any other copying, adaptation or commercial use (books, film, TV, documentary, podcasts, paid articles, AI training) needs a written licence first. Full terms: https://bucklerfamily.estate/licence/ · Apply: https://bucklerfamily.estate/enquire/ · See `LICENSE` and `NOTICE`. Third-party components keep their own licences. Exception: the Williams–Buckler crest artwork is licensed CC BY-SA 4.0 and grants no arms; see `NOTICE` item 3.
+The content and original code in this repository are not open source. You may read it, link to it and quote it fairly with credit. Any other copying, adaptation or commercial use (books, film, TV, documentary, podcasts, paid articles, AI training) needs a written licence first. Full terms: https://bucklerfamily.estate/licence/ · Apply: https://bucklerfamily.estate/enquire/ · See `LICENSE` and `NOTICE`. Third-party components keep their own licences.
 
 Our case, prospective. Not a finding of any court. Not legal advice. — Sion's Tab agent
